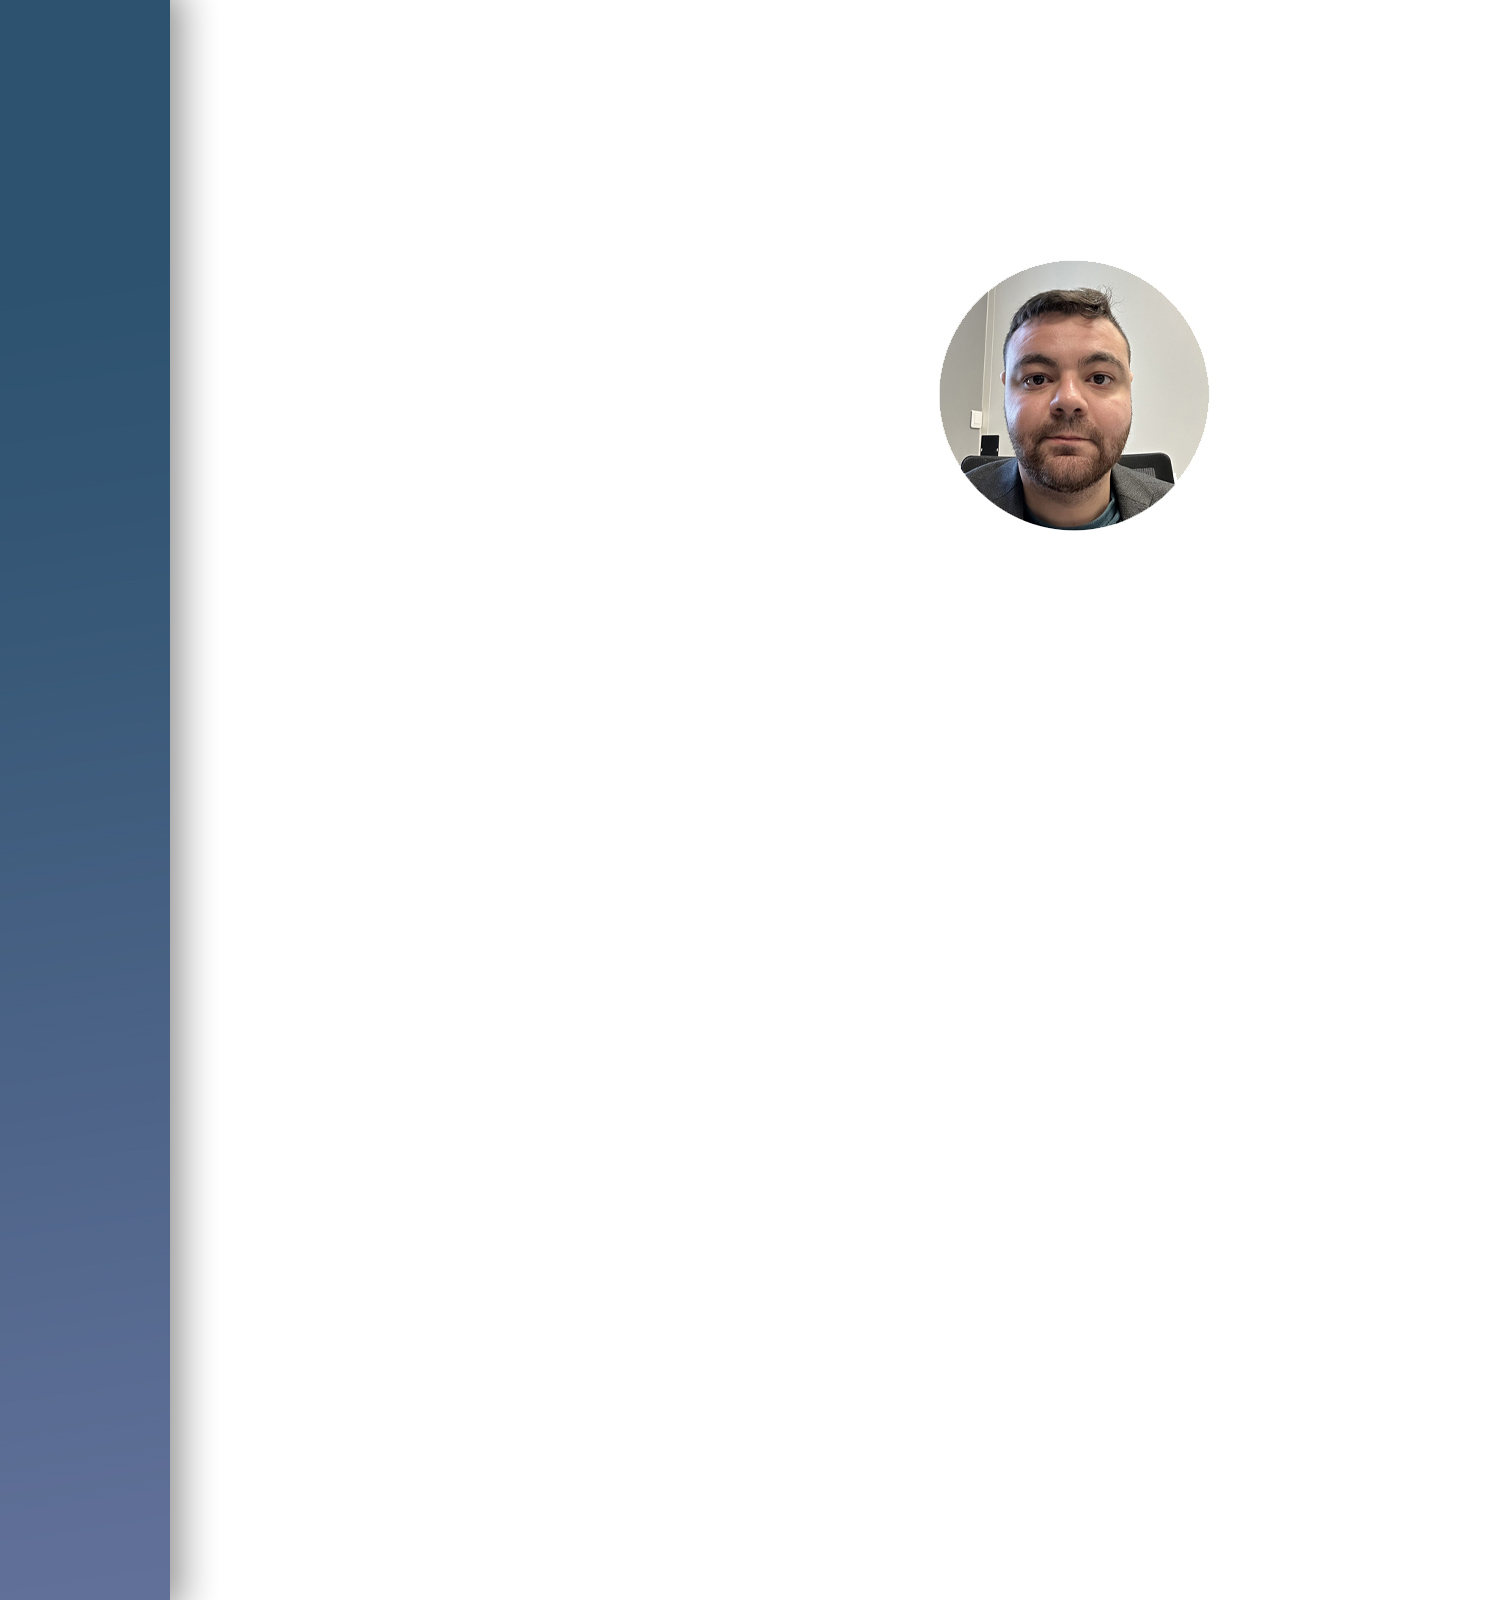
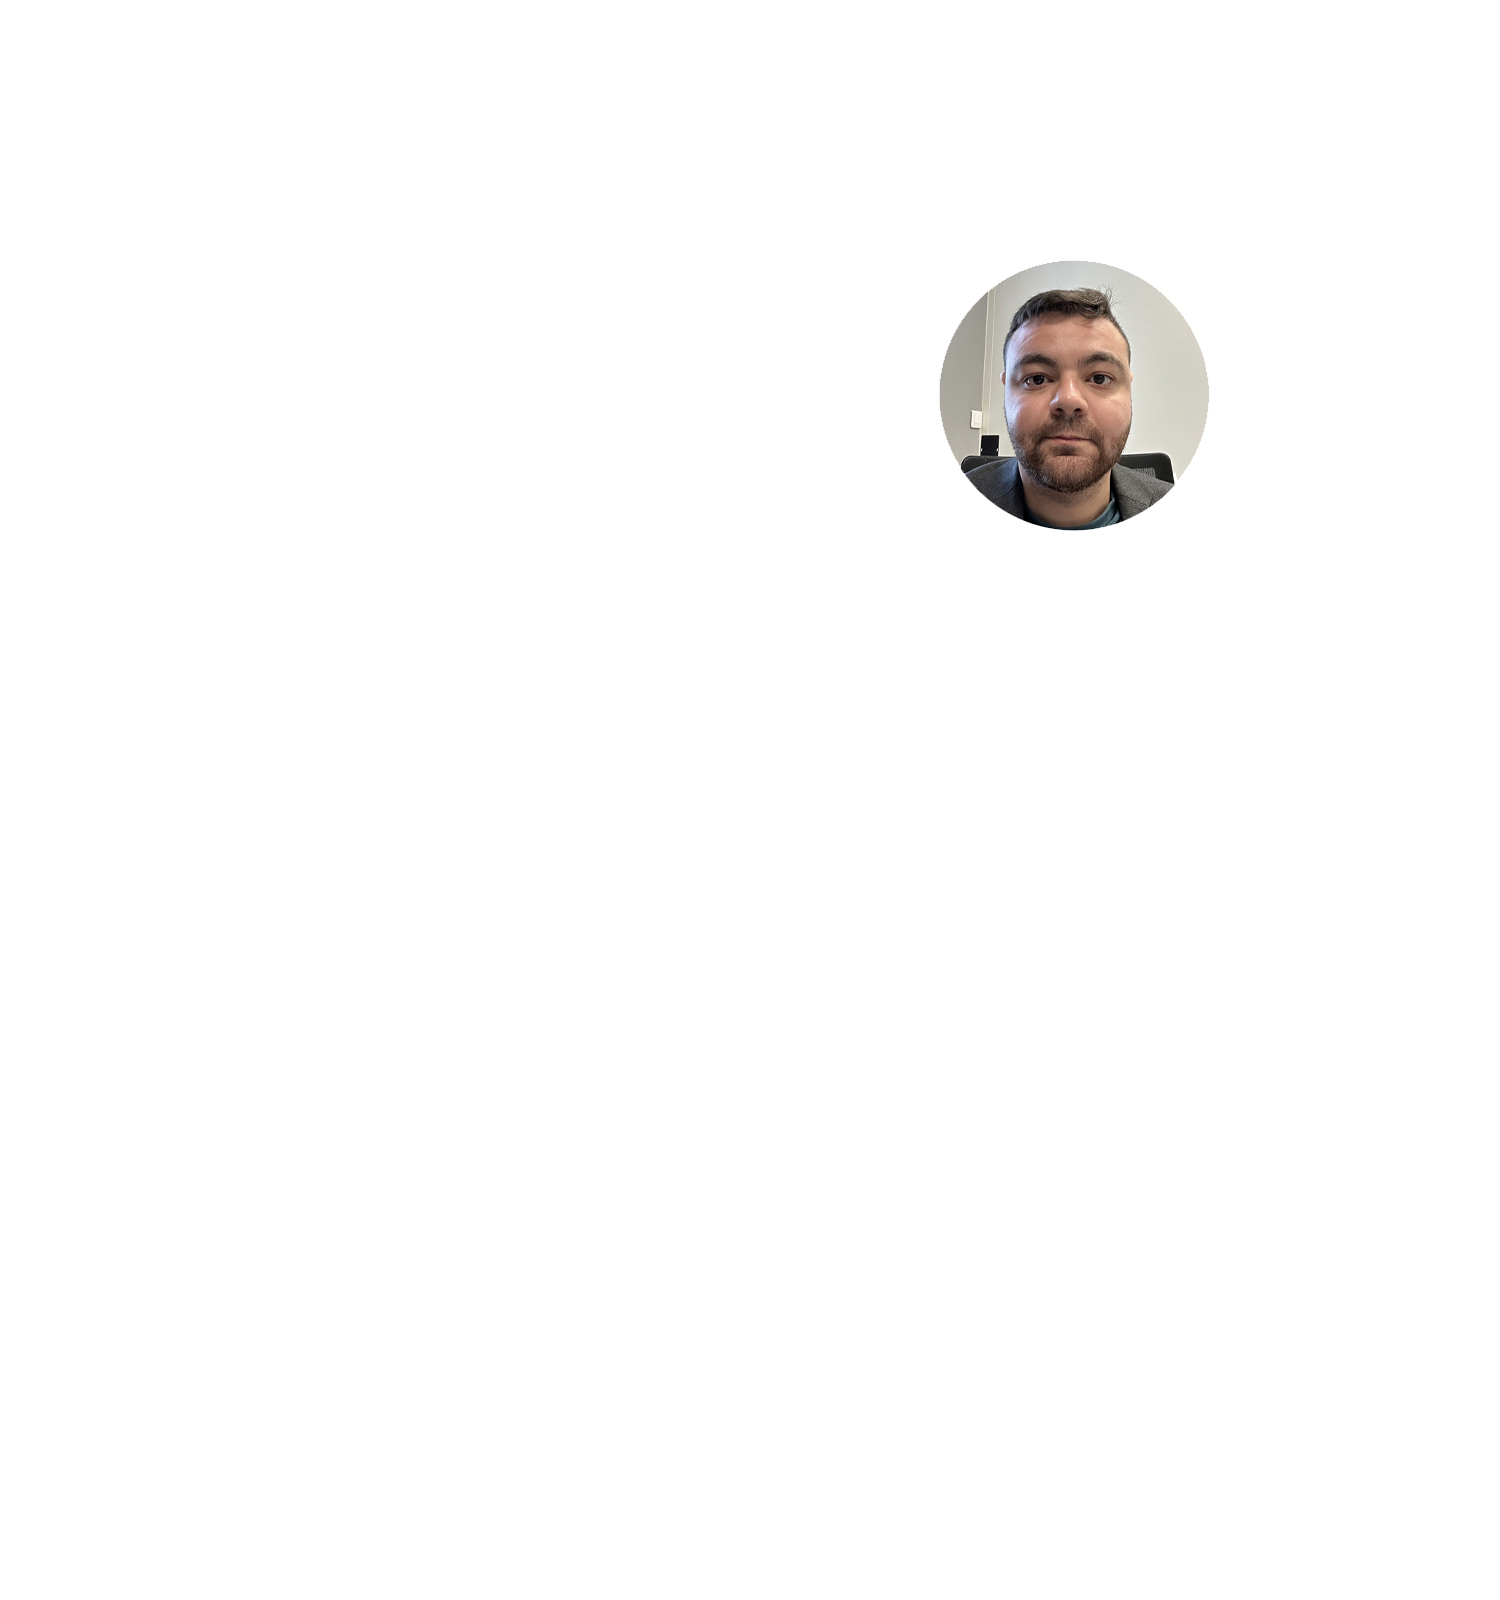
Push to GitHub

Changed region(s): [[0.0, 0.0, 0.1533, 1.0]]

diff --git a/index.html b/index.html
@@ -16,13 +16,21 @@
         }
         h1 { color: #000; }
         p { font-size: 16px; color: #000; text-align: justify; } /* Texte justifié */
-        .sidebar { 
+        .sidebar {
             width: 200px; 
-            float: left; 
+            height: 100vh; /* Prend toute la hauteur de l'écran */
+            position: fixed; /* Fixe la sidebar à gauche pour qu'elle reste visible en scrollant */
+            top: 0; /* Alignement en haut */
+            left: 0; /* Alignement à gauche */
             padding: 10px; 
-            background-color: transparent; /* Sidebar transparente */
-            color: #fff; /* Texte blanc pour contraste avec l'image de fond */
-            font-family: Arial, sans-serif; /* Police Arial uniquement pour la sidebar */
+            background-color: transparent; /* Conserve la transparence */
+            background-image: url('FrontPic/sidebar.png'); /* Chemin vers votre image PNG */
+            background-repeat: no-repeat; /* Évite la répétition */
+            background-size: cover; /* Couvre toute la sidebar (largeur et hauteur) */
+            background-position: center; /* Centre l'image */
+            color: #fff; /* Conserve la couleur du texte */
+            font-family: Arial, sans-serif; /* Conserve la police */
+            overflow-y: auto; /* Ajoute un défilement si le contenu dépasse la hauteur */
         }
         .content { 
             margin-left: 220px; 
@@ -43,11 +51,18 @@
         .content a:hover { 
             color: #000080; /* Bleu foncé au survol pour les liens dans .content */
         }
+        .section { 
+            background-color: rgba(255, 255, 255, 0.8); /* Fond semi-transparent */
+            padding: 20px; 
+            border-radius: 8px; 
+            margin-bottom: 20px; 
+            box-shadow: 0 2px 5px rgba(0, 0, 0, 0.1); /* Ombre légère pour un effet 3D */
+        }
     </style>
 </head>
 <body>
     <div class="sidebar">
-        <ul>
+        <ul class="menu">
             <li><a href="index.html">Accueil</a></li>
             <li><a href="formation.html">Formation</a></li>
             <li><a href="pea.html">Projet d'économétrie appliquée</a></li>
@@ -58,26 +73,24 @@
         </ul>
     </div>
     <div class="content">
-        <h1>EL BOUFFI DRISS</h1>
-        <p>Data Analyst / Data Scientist / Programmeur, spécialisé dans le domaine de la finance. Jeune diplômé d'un Master Système d'Information Économique et Financier à l'Université de Montpellier, passionné par l'analyse de données, l'économétrie et l'informatique, j'ai développé des compétences en finance, statistiques et programmation. Ce site présente mon parcours académique, mes expériences professionnelles et mes projets significatifs.</p>
-        <div>
+        <div class="section">
+            <h1>EL BOUFFI DRISS</h1>
+            <p>Data Analyst / Data Scientist / Programmeur, spécialisé dans le domaine de la finance. Jeune diplômé d'un Master Système d'Information Économique et Financier à l'Université de Montpellier, passionné par l'analyse de données, l'économétrie et l'informatique, j'ai développé des compétences en finance, statistiques et programmation. Ce site présente mon parcours académique, mes expériences professionnelles et mes projets significatifs.</p>
+            <p><a href="../El_Bouffi/Docs/CV_EL_BOUFFI.pdf" target="_blank">Télécharger mon CV</a></p>
             <p><a href="contact.html">Me contacter</a></p>
         </div>
-        <div>
+        <div class="section">
             <h2>À Propos</h2>
             <p>Motivé avec une formation solide en économie et finance, renforcée par des compétences techniques en data et programmation. J'ai réalisé un stage chez Septeo où j'ai conçu et développé un système automatisé de suivi et d’analyse en temps réel des coûts d’infrastructure cloud, et un autre chez Queoval pour l'analyse des besoins clients avec traitement des données adapté. Mes projets incluent des analyses financières et des modélisations de bases de données.</p>
-            <p><a href="../El_Bouffi/Docs/CV_EL_BOUFFI.pdf" target="_blank">Télécharger mon CV</a></p>
         </div>
-        
-        <div>
+        <div class="section">
             <h2>Formation</h2>
             <p><a href="formation.html">Master : Système d'information économique et financier - Université de Montpellier</a></p>
             <p>Compétences approfondies en fouille et analyse de données, économétrie et prévisions de séries temporelles, avec maîtrise des langages VBA, SQL, SAS et Python. Expérience en Machine Learning appliqué à l’analyse économique et financière, ainsi qu’en conception et modélisation de systèmes d’information. Connaissances solides en droit informatique et sécurité des données (RGPD).</p>
             <p><a href="formation.html">Licence d'économie - Université de Montpellier</a></p>
             <p>Connaissances solides en économie et en management, avec compétences en communication, comptabilité générale et analytique, ainsi qu’en statistiques et probabilités appliquées aux inférences. Compréhension des principes du droit des affaires.</p>
         </div>
-        
-        <div>
+        <div class="section">
             <h2>Compétences</h2>
             <ul>
                 <li>Bases de données (SQL, NoSQL), Big Data (Apache Spark, Databricks).</li>
@@ -88,8 +101,7 @@
                 <li>Statistiques inférentielles, économétrie (ARIMA, GARCH, VAR), data visualisation (Power BI, SAS, Stata, EViews).</li>
             </ul>
         </div>
-        
-        <div>
+        <div class="section">
             <h2>Expériences Professionnelles</h2>
             <ul>
                 <li>Septeo – Lattes | Stage de fin d’études | Mars 2025 – Août 2025<br>Conception et développement d’un système automatisé de suivi et d’analyse en temps réel des coûts d’infrastructure cloud par application et par filiale, sur hébergement souverain (PHP, Kubernetes) :
@@ -107,8 +119,7 @@
                 </li>
             </ul>
         </div>
-        
-        <div>
+        <div class="section">
             <h2>Projets Significatifs</h2>
             <ul>
                 <li>Document : Cycle de vie de la Nintendo Switch (analyses et prévisions pour l’année fiscale 2024) (<a href="pea.html">Voir plus...</a>).</li>
@@ -120,16 +131,14 @@
                 <li>Valorisation de l'entreprise Nestlé.</li>
             </ul>
         </div>
-        
-        <div>
+        <div class="section">
             <h2>Langues</h2>
             <ul>
                 <li>Français</li>
-                <li>Anglais</li>
+                <li>Anglais - Niveau intermédiaire</li>
             </ul>
         </div>
-        
-        <div>
+        <div class="section">
             <h2>Autres Informations</h2>
             <ul>
                 <li>Permis B</li>
@@ -137,8 +146,6 @@
                 <li>Certification Voltaire</li>
             </ul>
         </div>
-        
-
     </div>
 </body>
 </html>

diff --git a/contact.html b/contact.html
@@ -18,11 +18,19 @@
         p { font-size: 16px; color: #000; text-align: justify; } /* Texte justifié */
         .sidebar { 
             width: 200px; 
-            float: left; 
+            height: 100vh; /* Prend toute la hauteur de l'écran */
+            position: fixed; /* Fixe la sidebar à gauche pour qu'elle reste visible en scrollant */
+            top: 0; /* Alignement en haut */
+            left: 0; /* Alignement à gauche */
             padding: 10px; 
-            background-color: transparent; /* Sidebar transparente */
-            color: #fff; /* Texte blanc pour contraste avec l'image de fond */
-            font-family: Arial, sans-serif; /* Police Arial uniquement pour la sidebar */
+            background-color: transparent; /* Conserve la transparence */
+            background-image: url('FrontPic/sidebar.png'); /* Chemin vers votre image PNG */
+            background-repeat: no-repeat; /* Évite la répétition */
+            background-size: cover; /* Couvre toute la sidebar (largeur et hauteur) */
+            background-position: center; /* Centre l'image */
+            color: #fff; /* Conserve la couleur du texte */
+            font-family: Arial, sans-serif; /* Conserve la police */
+            overflow-y: auto; /* Ajoute un défilement si le contenu dépasse la hauteur */
         }
         .content { 
             margin-left: 220px; 

diff --git a/pea.html b/pea.html
@@ -18,11 +18,19 @@
         p { font-size: 16px; color: #000; text-align: justify; } /* Texte justifié */
         .sidebar { 
             width: 200px; 
-            float: left; 
+            height: 100vh; /* Prend toute la hauteur de l'écran */
+            position: fixed; /* Fixe la sidebar à gauche pour qu'elle reste visible en scrollant */
+            top: 0; /* Alignement en haut */
+            left: 0; /* Alignement à gauche */
             padding: 10px; 
-            background-color: transparent; /* Sidebar transparente */
-            color: #fff; /* Texte blanc pour contraste avec l'image de fond */
-            font-family: Arial, sans-serif; /* Police Arial uniquement pour la sidebar */
+            background-color: transparent; /* Conserve la transparence */
+            background-image: url('FrontPic/sidebar.png'); /* Chemin vers votre image PNG */
+            background-repeat: no-repeat; /* Évite la répétition */
+            background-size: cover; /* Couvre toute la sidebar (largeur et hauteur) */
+            background-position: center; /* Centre l'image */
+            color: #fff; /* Conserve la couleur du texte */
+            font-family: Arial, sans-serif; /* Conserve la police */
+            overflow-y: auto; /* Ajoute un défilement si le contenu dépasse la hauteur */
         }
         .content { 
             margin-left: 220px; 

diff --git a/formation.html b/formation.html
@@ -21,11 +21,19 @@
         li { margin-bottom: 8px; }
         .sidebar { 
             width: 200px; 
-            float: left; 
+            height: 100vh; /* Prend toute la hauteur de l'écran */
+            position: fixed; /* Fixe la sidebar à gauche pour qu'elle reste visible en scrollant */
+            top: 0; /* Alignement en haut */
+            left: 0; /* Alignement à gauche */
             padding: 10px; 
-            background-color: transparent; /* Sidebar transparente */
-            color: #fff; /* Texte blanc pour contraste avec l'image de fond */
-            font-family: Arial, sans-serif; /* Police Arial uniquement pour la sidebar */
+            background-color: transparent; /* Conserve la transparence */
+            background-image: url('FrontPic/sidebar.png'); /* Chemin vers votre image PNG */
+            background-repeat: no-repeat; /* Évite la répétition */
+            background-size: cover; /* Couvre toute la sidebar (largeur et hauteur) */
+            background-position: center; /* Centre l'image */
+            color: #fff; /* Conserve la couleur du texte */
+            font-family: Arial, sans-serif; /* Conserve la police */
+            overflow-y: auto; /* Ajoute un défilement si le contenu dépasse la hauteur */
         }
         .content { 
             margin-left: 220px; 

diff --git a/marveldoc.html b/marveldoc.html
@@ -18,11 +18,19 @@
         p { font-size: 16px; color: #000; text-align: justify; }
         .sidebar { 
             width: 200px; 
-            float: left; 
+            height: 100vh; /* Prend toute la hauteur de l'écran */
+            position: fixed; /* Fixe la sidebar à gauche pour qu'elle reste visible en scrollant */
+            top: 0; /* Alignement en haut */
+            left: 0; /* Alignement à gauche */
             padding: 10px; 
-            background-color: transparent;
-            color: #fff;
-            font-family: Arial, sans-serif;
+            background-color: transparent; /* Conserve la transparence */
+            background-image: url('FrontPic/sidebar.png'); /* Chemin vers votre image PNG */
+            background-repeat: no-repeat; /* Évite la répétition */
+            background-size: cover; /* Couvre toute la sidebar (largeur et hauteur) */
+            background-position: center; /* Centre l'image */
+            color: #fff; /* Conserve la couleur du texte */
+            font-family: Arial, sans-serif; /* Conserve la police */
+            overflow-y: auto; /* Ajoute un défilement si le contenu dépasse la hauteur */
         }
         .content { 
             margin-left: 220px; 
